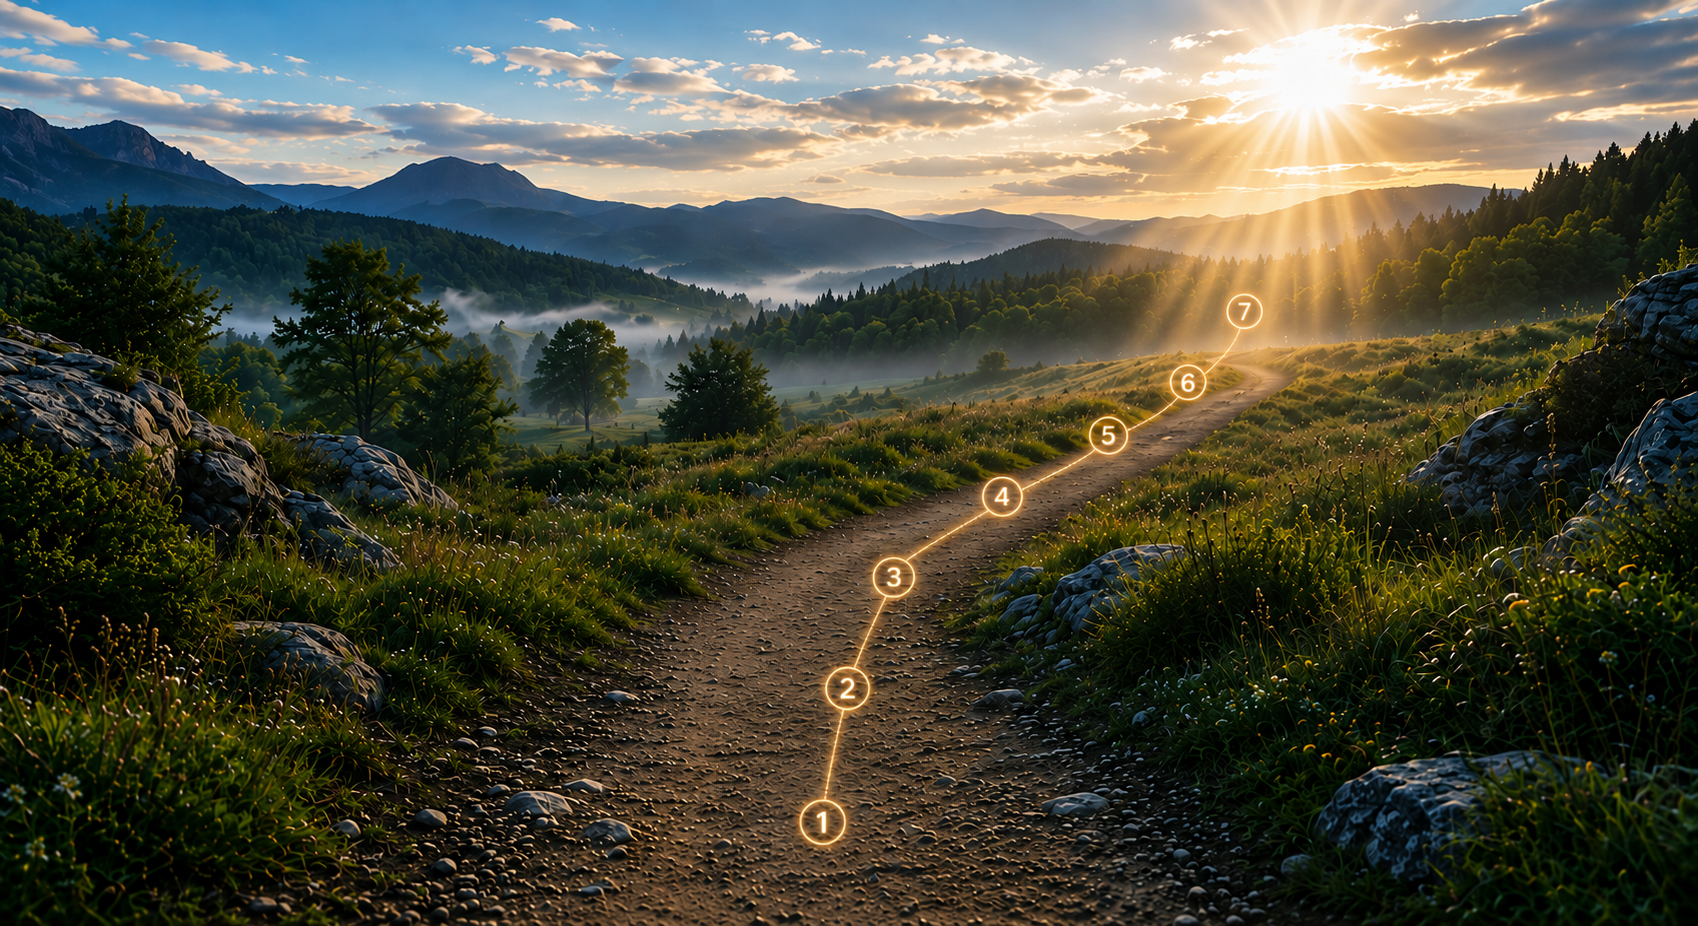
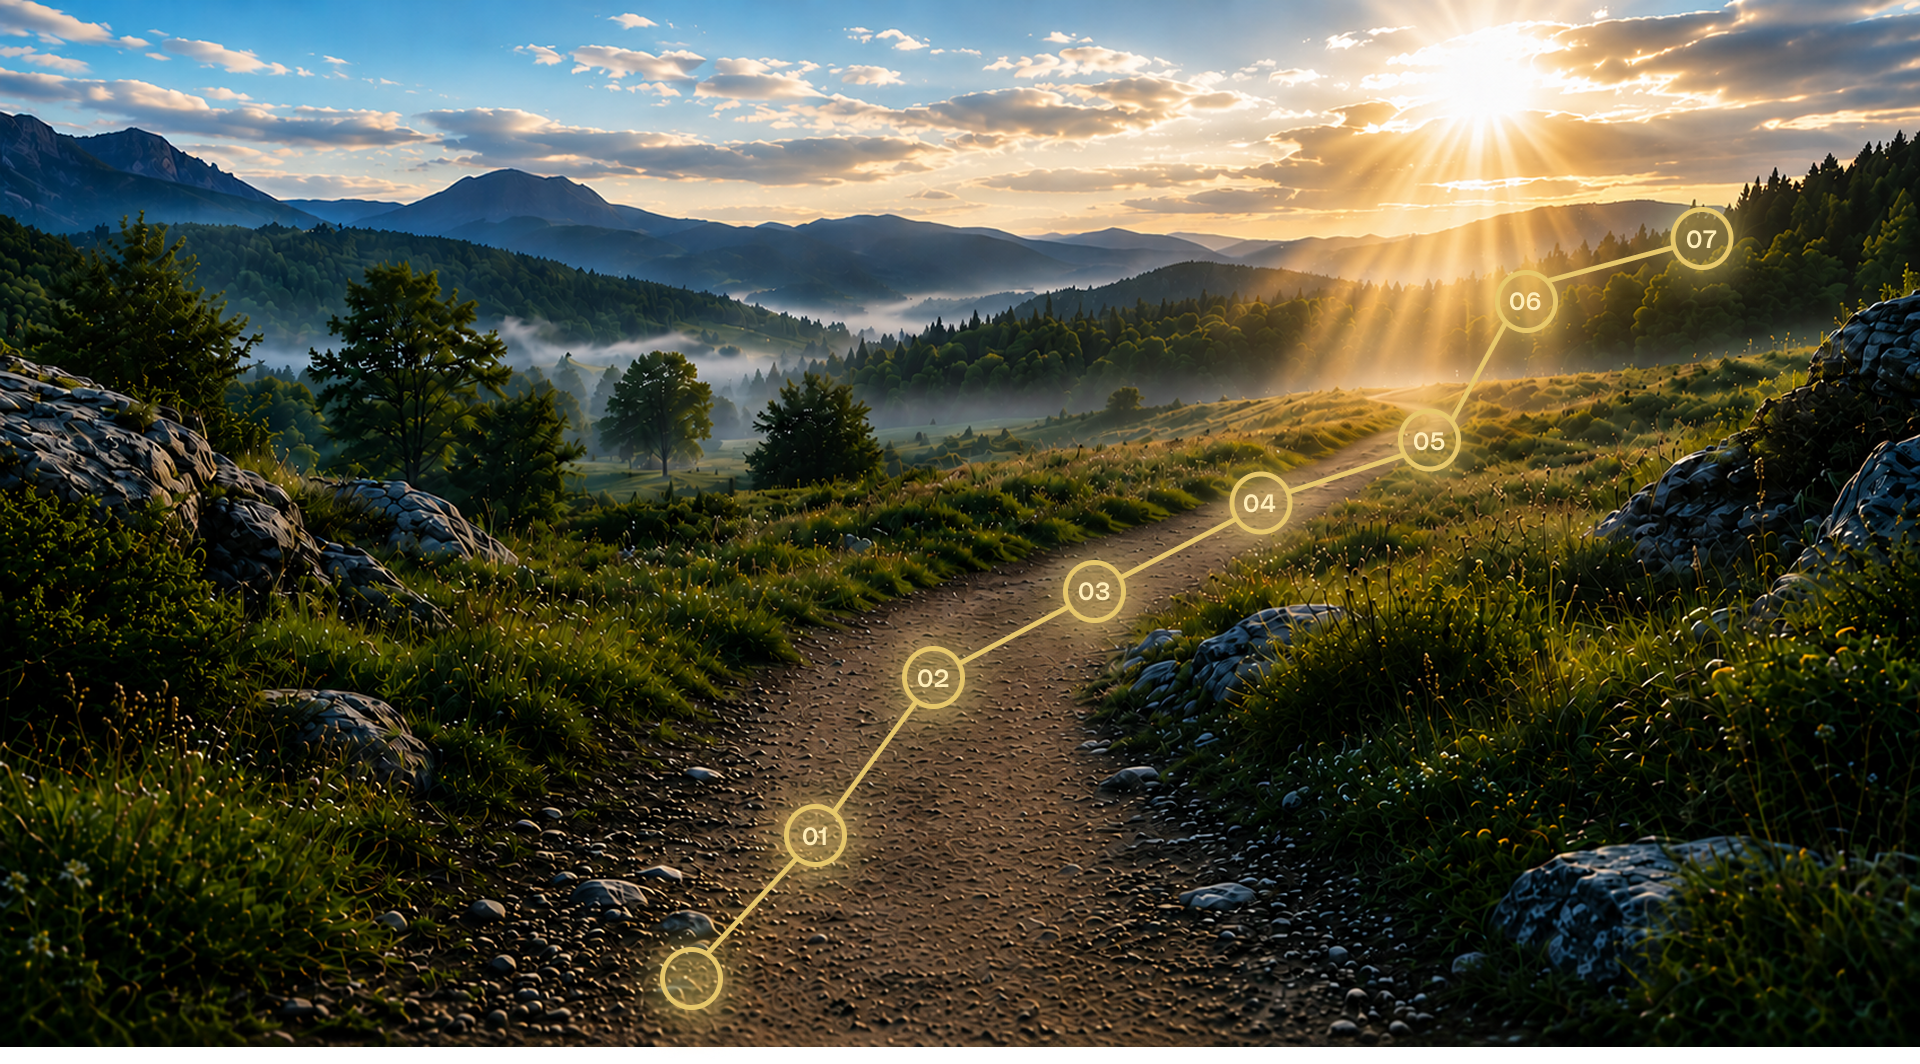
steps section update

diff --git a/style.css b/style.css
@@ -3153,10 +3153,7 @@ body.night-theme .dropdown-link:hover {
   margin: 0 auto;
   aspect-ratio: 16 / 9;
   min-height: 480px;
-  border-radius: 2rem;
-  overflow: hidden;
-  box-shadow: 0 25px 45px -12px rgba(0, 0, 0, 0.6), inset 0 1px 0 rgba(255,255,240,0.05);
-  background: #1a1714;
+ 
 }
 
 /* Background Image */
@@ -3181,7 +3178,6 @@ body.night-theme .dropdown-link:hover {
   z-index: 15;
   pointer-events: none;
 }
-
 /* ════════════════════════════════════════════════════════════
    STEP CARD — PREMIUM GLOWING DESIGN
    ════════════════════════════════════════════════════════════ */
@@ -3192,7 +3188,7 @@ body.night-theme .dropdown-link:hover {
   width: 195px;
   pointer-events: auto;
   cursor: pointer;
-  opacity: 0;
+ 
   transform: translateY(28px) scale(0.92) rotate(var(--rot, 0deg));
   transition: opacity 0.4s ease, transform 0.45s cubic-bezier(0.34, 1.2, 0.64, 1);
   will-change: transform, opacity;
@@ -3205,14 +3201,15 @@ body.night-theme .dropdown-link:hover {
   transition: opacity 0.45s cubic-bezier(0.2, 0.9, 0.4, 1.2), transform 0.55s cubic-bezier(0.25, 1.2, 0.35, 1);
 }
 
-/* ─── Positions (UNCHANGED) ─── */
-.lj-step[data-step="1"] { --rot: 0deg; left: 41%;  bottom: 2%; }
-.lj-step[data-step="2"] { --rot: 8deg; left: 42%; bottom: 16%; }
-.lj-step[data-step="3"] { --rot: 26.5deg; left: 44%; bottom: 30%; }
-.lj-step[data-step="4"] { --rot: 36.2deg; left: 50%; bottom: 38%; }
-.lj-step[data-step="5"] { --rot: 37.5deg; left: 56%; bottom: 46%; }
-.lj-step[data-step="6"] { --rot: 31.8deg; left: 62%; bottom: 52%; }
-.lj-step[data-step="7"] { --rot: 27.5deg; left: 66%; bottom: 59%; }
+/* ─── Positions ─── */
+.lj-step[data-step="0"] { --rot: 26deg; left: 28%; bottom: 5%; }
+.lj-step[data-step="1"] { --rot: 28deg; left: 33%; bottom: 12%; }
+.lj-step[data-step="2"] { --rot: 32deg; left: 39%; bottom: 25%; }
+.lj-step[data-step="3"] { --rot: 41.5deg; left: 46%; bottom: 36%; }
+.lj-step[data-step="4"] { --rot: 42.2deg; left: 54%; bottom: 45%; }
+.lj-step[data-step="5"] { --rot: 37.5deg; left: 65%; bottom: 51%; }
+.lj-step[data-step="6"] { --rot: 31.8deg; left: 70%; bottom: 61%; }
+.lj-step[data-step="7"] { --rot: 53.5deg; left: 78%; bottom: 70%; }
 
 /* ════════════════════════════════════════════════════════════
    CARD INNER — PREMIUM GLASSMORPHISM + GLOW
@@ -3223,7 +3220,7 @@ body.night-theme .dropdown-link:hover {
   backdrop-filter: blur(16px);
   -webkit-backdrop-filter: blur(16px);
   border-radius: 0.85rem;
-  padding: 0.5rem 1rem;
+  padding: 1rem 1rem;
   text-align: center;
   box-shadow:
     0 12px 28px -10px rgba(0, 0, 0, 0.5),
@@ -3268,6 +3265,7 @@ body.night-theme .dropdown-link:hover {
 }
 
 /* ─── Unique GLOW colors per day ─── */
+.lj-step[data-step="0"] { --glow-color: #f0e6d3; }
 .lj-step[data-step="1"] { --glow-color: #c8a064; }
 .lj-step[data-step="2"] { --glow-color: #78b48c; }
 .lj-step[data-step="3"] { --glow-color: #b482a0; }
@@ -3277,6 +3275,11 @@ body.night-theme .dropdown-link:hover {
 .lj-step[data-step="7"] { --glow-color: #d4af37; }
 
 /* ─── Unique DARK backgrounds per day ─── */
+.lj-step[data-step="0"] .lj-step-inner {
+  background: linear-gradient(145deg, rgba(30, 28, 24, 0.95), rgba(20, 18, 15, 0.98));
+  border: 1px solid rgba(240, 230, 211, 0.2);
+  box-shadow: 0 8px 25px rgba(240, 230, 211, 0.05);
+}
 .lj-step[data-step="1"] .lj-step-inner {
   background: rgba(30, 25, 18, 0.92);
   border: 1px solid rgba(200, 160, 100, 0.35);
@@ -3354,6 +3357,11 @@ body.night-theme .dropdown-link:hover {
 }
 
 /* ─── Unique hover backgrounds per card ─── */
+.lj-step[data-step="0"]:hover .lj-step-inner {
+  background: rgba(45, 40, 35, 0.98);
+  border-color: rgba(240, 230, 211, 0.6);
+  box-shadow: 0 8px 40px rgba(240, 230, 211, 0.12);
+}
 .lj-step[data-step="1"]:hover .lj-step-inner {
   background: rgba(45, 35, 20, 0.98);
   border-color: rgba(200, 160, 100, 0.8);
@@ -3400,6 +3408,10 @@ body.night-theme .dropdown-link:hover {
 }
 
 /* ─── Unique active backgrounds per card ─── */
+.lj-step[data-step="0"].is-active .lj-step-inner {
+  background: rgba(50, 45, 38, 1);
+  border-color: rgba(240, 230, 211, 0.7);
+}
 .lj-step[data-step="1"].is-active .lj-step-inner {
   background: rgba(50, 38, 22, 1);
   border-color: rgba(200, 160, 100, 0.9);
@@ -3513,7 +3525,6 @@ body.night-theme .dropdown-link:hover {
   from { opacity: 0; transform: translateY(20px); }
   to { opacity: 1; transform: translateY(0); }
 }
-
 /* ════════════════════════════════════════════════════════════
    CONNECTING PATH
    ════════════════════════════════════════════════════════════ */

diff --git a/script.js b/script.js
@@ -41,18 +41,20 @@ const debounce = (func, wait) => {
     if (progressFill) progressFill.style.width = percent + '%';
 
     const stepMessages = [
-      'Begin Your Journey',
+      '✨ Begin Your Journey',      // Day 0
       '🕊 Day 1: Rest in Peace',
       '🌿 Day 2: Grow in Grace',
       '💚 Day 3: Receive Healing',
       '🪶 Day 4: Know Your Identity',
       '🛡 Day 5: Trust His Plan',
       '💪 Day 6: Walk in Strength',
-      '✨ You Have Reached the Light! ✨'
+      '✨ You Have Reached the Light! ✨'  // Day 7
     ];
 
     if (progressMsgSpan) {
-      progressMsgSpan.textContent = stepMessages[revealedCount] || stepMessages[0];
+      // Use revealedCount as index directly since it matches the number of revealed cards
+      const msgIndex = Math.min(revealedCount, stepMessages.length - 1);
+      progressMsgSpan.textContent = stepMessages[msgIndex] || stepMessages[0];
     }
 
     if (progressContainer) {
@@ -78,10 +80,14 @@ const debounce = (func, wait) => {
     entries.forEach(entry => {
       if (entry.isIntersecting) {
         const stepEl = entry.target;
-        const stepIndex = parseInt(stepEl.dataset.step, 10) - 1;
-        if (stepIndex >= 0 && !revealedIndices[stepIndex]) {
-          const delay = stepIndex * 400;
-          setTimeout(() => revealStep(stepEl, stepIndex), delay);
+        // Get index from data-step attribute directly
+        const stepIndex = parseInt(stepEl.dataset.step, 10);
+        // Map data-step to array index
+        // data-step="0" -> index 0, data-step="1" -> index 1, etc.
+        const arrayIndex = stepIndex;
+        if (arrayIndex >= 0 && arrayIndex < stepCards.length && !revealedIndices[arrayIndex]) {
+          const delay = arrayIndex * 400;
+          setTimeout(() => revealStep(stepEl, arrayIndex), delay);
         }
       }
     });
@@ -146,6 +152,8 @@ const debounce = (func, wait) => {
     }, 150);
   });
 })();
+
+  
  const observerOptions = {
     root: null,
     rootMargin: '0px 0px -50px 0px',
@@ -222,18 +230,18 @@ const initNavbar = () => {
    ============================================ */
 const initBridgeCarousel = () => {
   const IMAGES = [
-    "/images/start.jpg", "/images/rest.jpg", "/images/grow.jpg", "/images/stories.jpg",
-    "/images/teens.jpg", "/images/lumenquest.jpg", "/images/resources.jpg", "/images/about.jpg", "/images/contact.jpg"
+    "/images/lumenquest.jpg", "/images/rest.jpg", "/images/inspiration.jpg", "/images/lumenquest.jpg",
+    "/images/grow.jpg","/images/lumenquest.jpg", "/images/teens.jpg", 
   ];
 
   // Define your links corresponding to each image
   const LINKS = [
-    "/start-here.html","/rest.html", "/grow.html", "/stories.html",
-    "/teens.html", "/lumenquest.html", "/resources.html", "/about.html", "/contact.html"
+    "/lumenquest.html","/rest.html", "/inspiration.html", "/lumenquest.html",
+    "/grow.html", "/lumenquest.html","/teens.html", 
   ];
 const LABELS = [
-  "Start Here", "Rest", "Grow", "Stories",
-  "Teens", "LumenQuest", "Resources", "About Us", "Contact"
+  "LumenQuest", "Rest", "Inspiration", "Lumenquest",
+  "Grow","LumenQuest", "Teens", 
 ];
   const track = document.getElementById('bridgeTrack');
   if (!track) return;

diff --git a/index.html b/index.html
@@ -204,10 +204,17 @@
 
 
     <div class="lj-steps">
+      <a href="rest.html" class="lj-step" data-step="0">
+        <div class="lj-step-inner">
+         
+          <div class="lj-step-keyword">WELCOME ORIENTATION</div>
+          
+        </div>
+      </a>
       <a href="rest.html" class="lj-step" data-step="1">
         <div class="lj-step-inner">
          
-          <div class="lj-step-keyword">Day 1  &nbsp; | &nbsp; Rest</div>
+          <div class="lj-step-keyword">WHO ARE YOU?</div>
           
         </div>
       </a>
@@ -215,7 +222,7 @@
       <a href="grow.html" class="lj-step" data-step="2">
         <div class="lj-step-inner">
          
-          <div class="lj-step-keyword">Day 2  &nbsp; | &nbsp;Grow</div>
+          <div class="lj-step-keyword">WHY IDENTITY MATTERS?</div>
           
         </div>
       </a>
@@ -223,7 +230,7 @@
       <a href="#day3-heal" class="lj-step" data-step="3">
         <div class="lj-step-inner">
          
-          <div class="lj-step-keyword">Day 3  &nbsp; | &nbsp;Heal</div>
+          <div class="lj-step-keyword">THE PROBLEM CHRIST SOLVED</div>
         
         </div>
       </a>
@@ -231,7 +238,7 @@
       <a href="#day4-id" class="lj-step" data-step="4">
         <div class="lj-step-inner">
           
-          <div class="lj-step-keyword">Day 4  &nbsp; | &nbsp;Identity</div>
+          <div class="lj-step-keyword">THE ACCOMPLISHMENTS OF THE CROS</div>
        
         </div>
       </a>
@@ -239,7 +246,7 @@
       <a href="#day5-trust" class="lj-step" data-step="5">
         <div class="lj-step-inner">
     
-          <div class="lj-step-keyword">Day 5  &nbsp; | &nbsp;Trust</div>
+          <div class="lj-step-keyword">WHO AM I NOW?</div>
           
         </div>
       </a>
@@ -247,7 +254,7 @@
       <a href="#day6-strength" class="lj-step" data-step="6">
         <div class="lj-step-inner">
       
-          <div class="lj-step-keyword">Day 6   &nbsp; | &nbsp;Strength</div>
+          <div class="lj-step-keyword">LIVING FROM THE FINISHED WORK</div>
   
         </div>
       </a>
@@ -255,20 +262,15 @@
       <a href="#day7-purpose" class="lj-step lj-step--final" data-step="7">
         <div class="lj-step-inner lj-step-inner--final">
           
-          <div class="lj-step-keyword">Day 7  &nbsp; | &nbsp;Purpose</div>
+          <div class="lj-step-keyword">LIVING AS MORE THAN A CONQUEROR</div>
     
         </div>
       </a>
     </div>
   </div>
 
-  <div class="lj-progress" aria-label="Journey Progress">
-    <div class="lj-progress-track">
-      <div class="lj-progress-fill" id="progressFill"></div>
-    </div>
-    <span class="lj-progress-text" id="progressMsg">Begin Your Journey</span>
-  </div>
-
+  
+  <div id="day0-rest" style="scroll-margin-top: 80px;"></div>
   <div id="day1-rest" style="scroll-margin-top: 80px;"></div>
   <div id="day2-grow" style="scroll-margin-top: 80px;"></div>
   <div id="day3-heal" style="scroll-margin-top: 80px;"></div>
